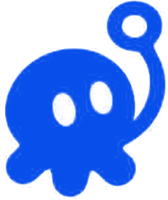
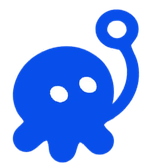
feat(web): show Sentry's warning, success and idle poses on notification cards by tone

diff --git a/apps/web/src/shared/ui/soma-card.tsx b/apps/web/src/shared/ui/soma-card.tsx
@@ -3,7 +3,7 @@ import type { ReactNode } from "react";
 import { cn } from "cn";
 
 import { Icon } from "./icon";
-import { SentryStill } from "./sentry-still";
+import { SentryStill, type SentryStillState } from "./sentry-still";
 
 export type CardTone = "ok" | "warn" | "danger" | "info" | "neutral";
 
@@ -23,6 +23,15 @@ const CHIP: Record<CardTone, string> = {
   danger: "bg-danger/15 text-danger",
   info: "bg-accent-soft text-signal",
   neutral: "bg-secondary text-ink",
+};
+
+// Risky notifications show the warning pose, good ones the success pose, the rest stay at rest
+const TONE_STILL: Record<CardTone, SentryStillState> = {
+  danger: "warning",
+  warn: "warning",
+  ok: "success",
+  info: "idle",
+  neutral: "idle",
 };
 
 const ACTION =
@@ -78,7 +87,7 @@ export function SomaCard({
     <article aria-label={label ?? title} className={cn("flex flex-col gap-4 rounded-2xl bg-card p-5", className)}>
       <header className="flex items-center justify-between gap-3">
         {avatar ?? (
-          <SentryStill className="w-14 shrink-0" />
+          <SentryStill state={TONE_STILL[tone]} className="w-14 shrink-0" />
         )}
         {chip && (
           <span className={cn("rounded-full px-3 py-1 text-xs font-semibold", CHIP[tone])}>{chip}</span>

diff --git a/apps/web/src/shared/ui/sentry-still.tsx b/apps/web/src/shared/ui/sentry-still.tsx
@@ -1,23 +1,32 @@
 import { cn } from "cn";
 
-export const SENTRY_STILL_SRC = "/mascot/sentry.png?v=2";
+export type SentryStillState = "idle" | "warning" | "success";
+
+// Bump a version whenever its file changes: these files are cached for a year
+export const SENTRY_STILL_SRC: Record<SentryStillState, string> = {
+  idle: "/mascot/sentry.png?v=3",
+  warning: "/mascot/sentry-warning.png?v=1",
+  success: "/mascot/sentry-success.png?v=1",
+};
 
 export function SentryStill({
   label = "Sentry",
+  state = "idle",
   className,
   eager = false,
 }: {
   label?: string;
+  state?: SentryStillState;
   className?: string;
   eager?: boolean;
 }) {
   return (
     // eslint-disable-next-line @next/next/no-img-element -- a small static asset served with long cache headers
     <img
-      src={SENTRY_STILL_SRC}
+      src={SENTRY_STILL_SRC[state]}
       alt={label}
       width={168}
-      height={200}
+      height={166}
       loading={eager ? "eager" : "lazy"}
       decoding="async"
       className={cn("h-auto select-none", className)}
